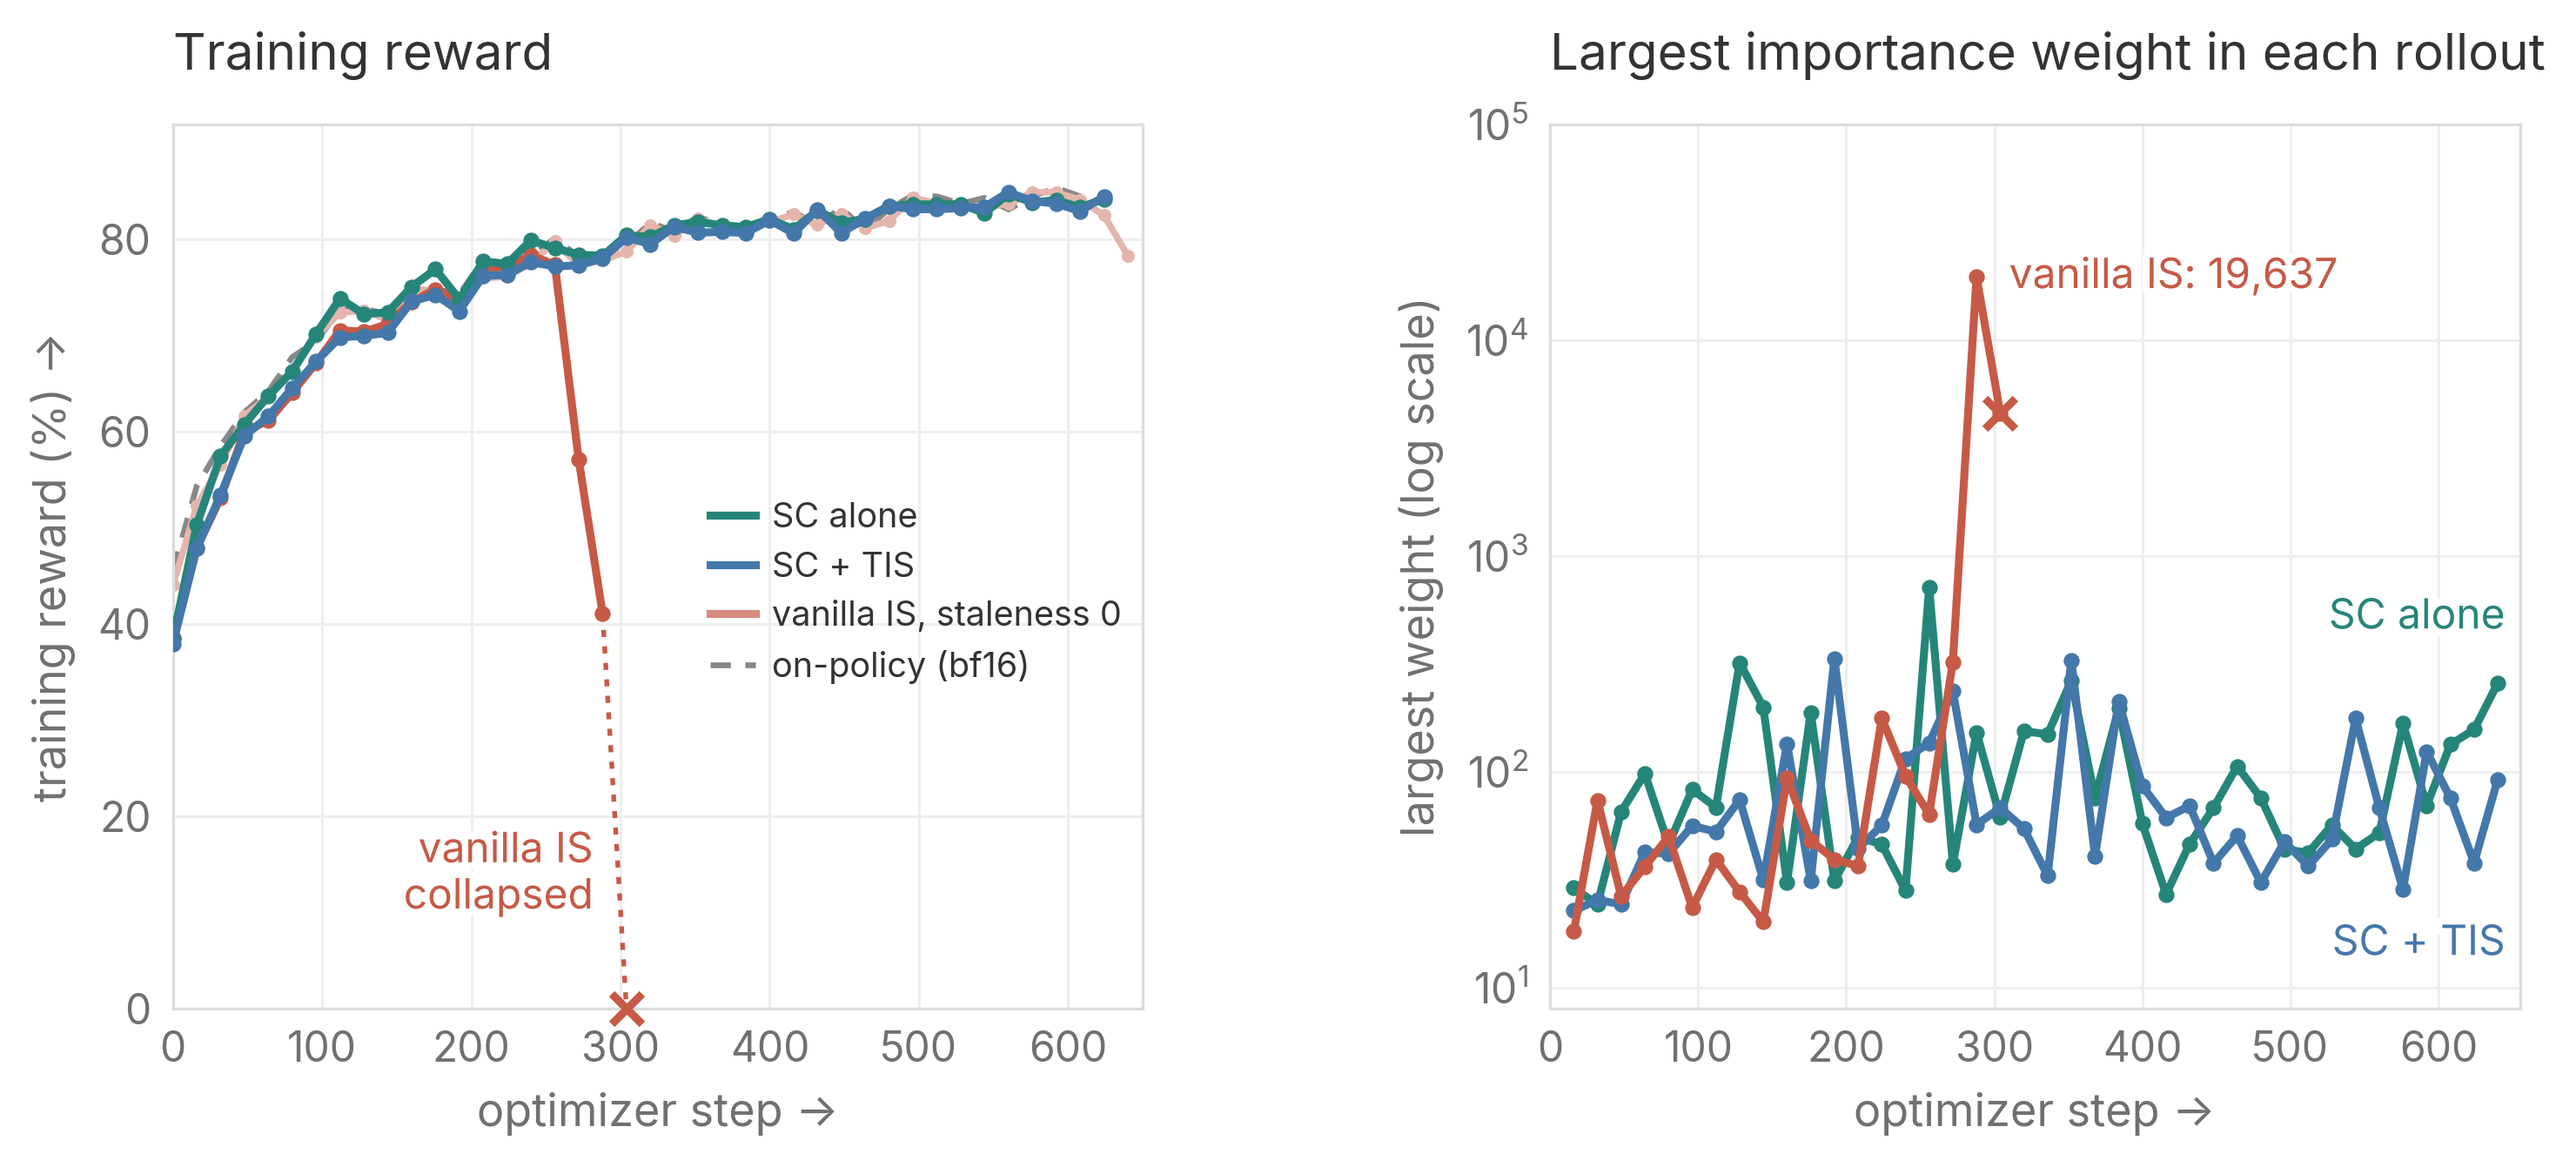
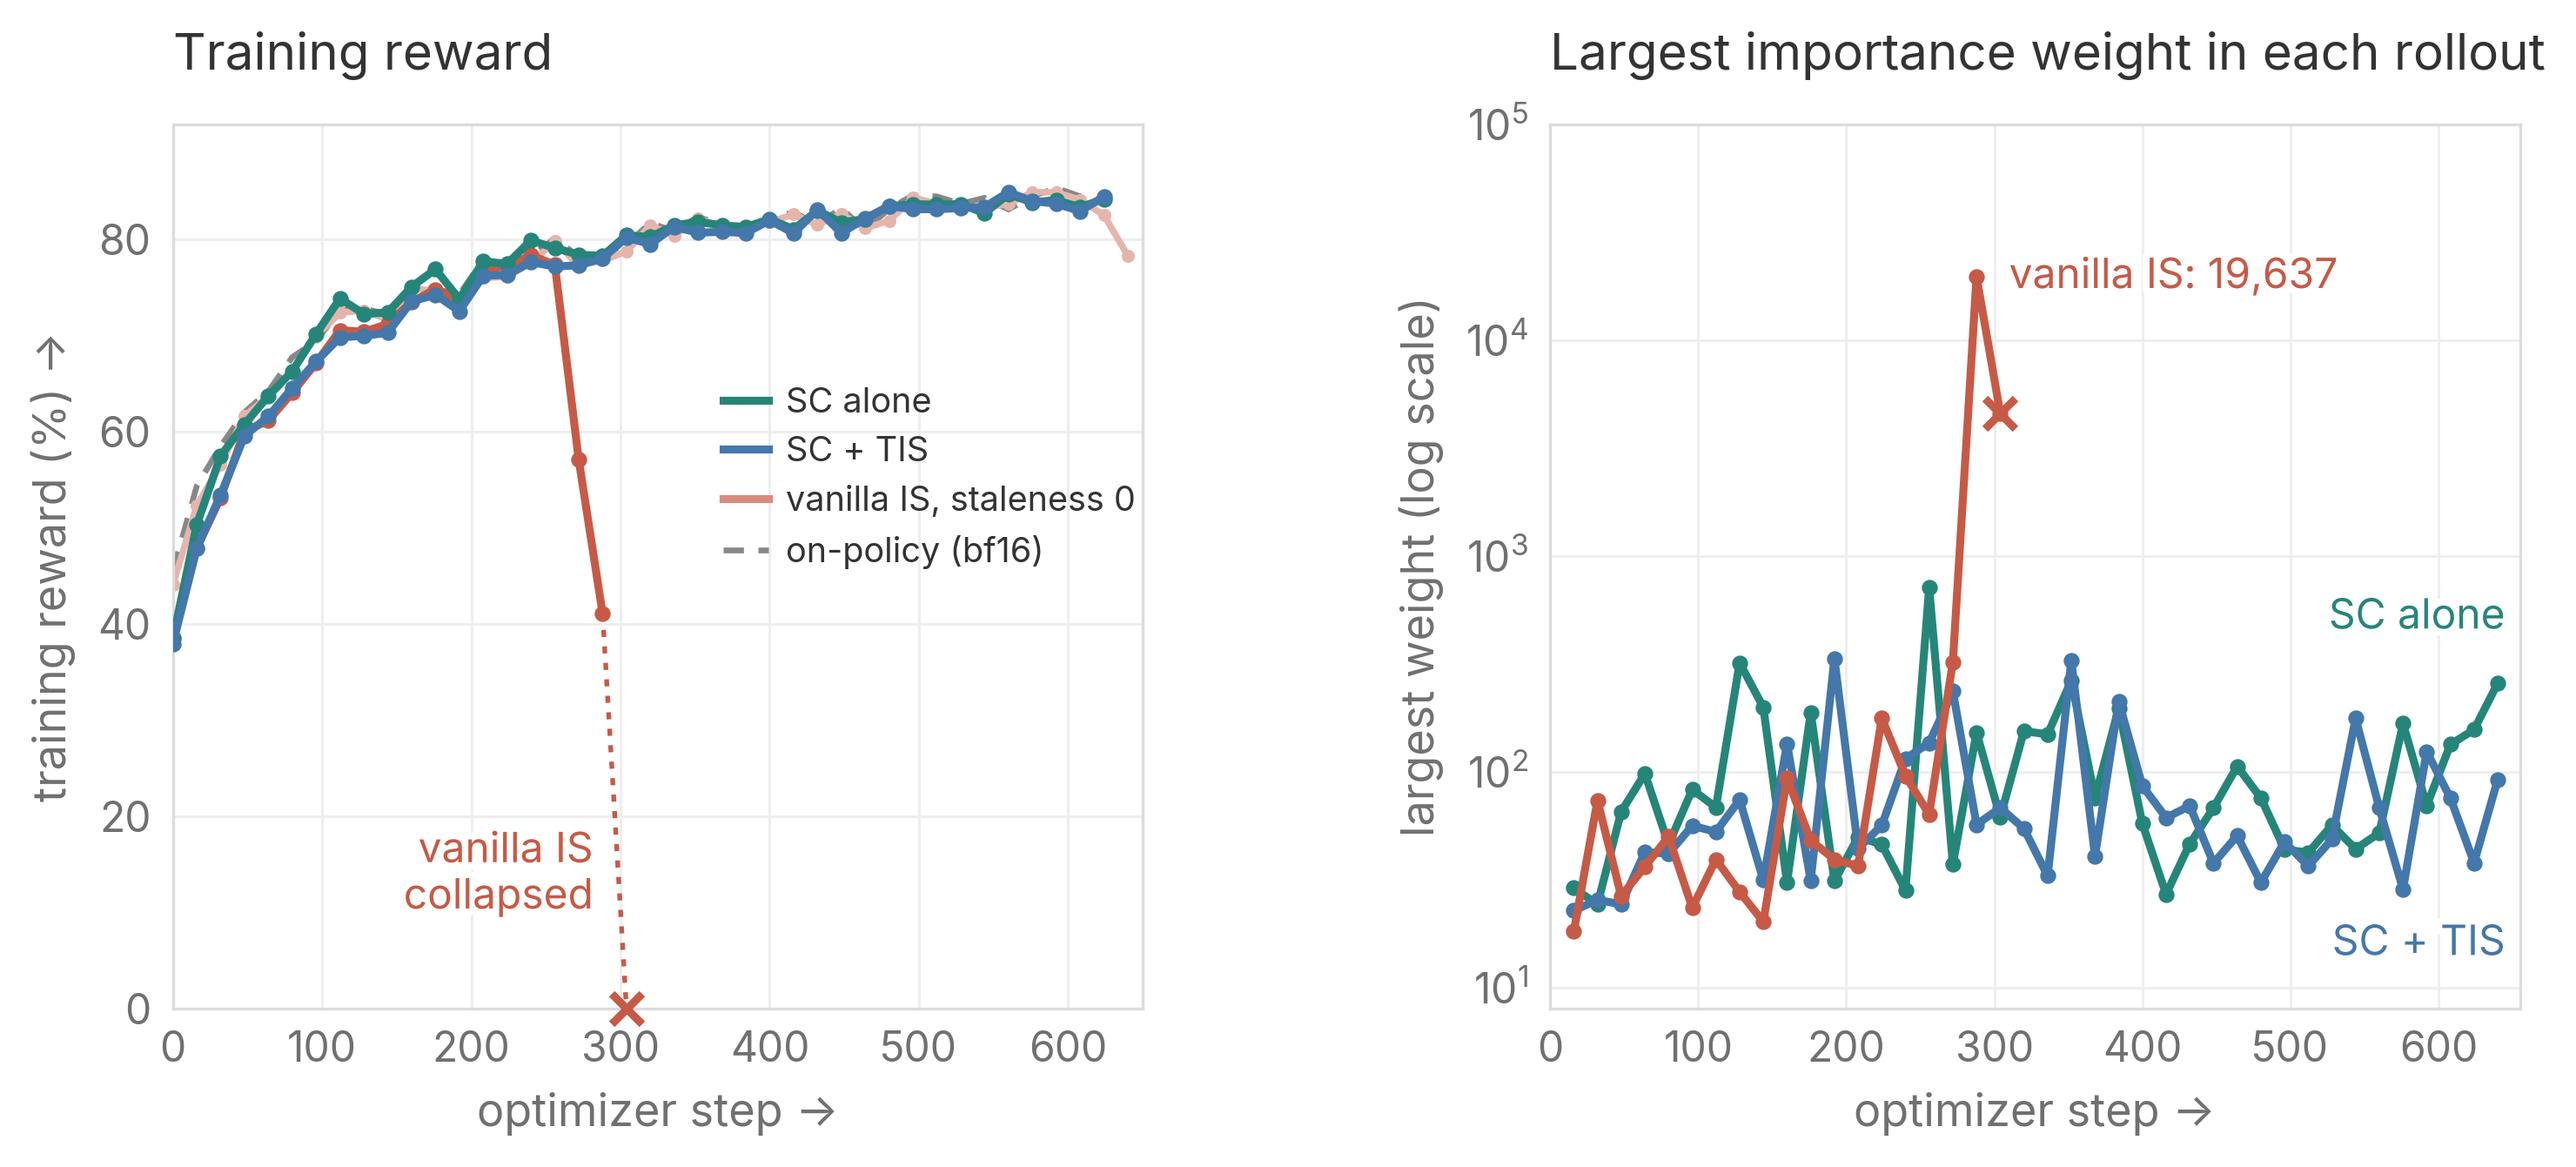
sc-drift-and-distance: Figure 12 legend moved further up

Changed region(s): [[0.2797, 0.3363, 0.4351, 0.4892], [0.2797, 0.5198, 0.4351, 0.5809]]

diff --git a/sc-drift-and-distance/index.html b/sc-drift-and-distance/index.html
@@ -227,7 +227,7 @@ html[data-theme=dark] .body figure img{filter:invert(.92) hue-rotate(180deg)}
 <p>Another option is importance weights, which correct the reweighting error that SC leaves. Vanilla IS removes drift in expectation even without SC (the starred run in <a class="figref" href="#fig-4">Figure 4</a>). Truncating the weights brings drift back, unless SC centers with the same truncated weights, as ours does. Yet neither rescues SC where it fails, and large and small weights show why.</p>
 <p><b>Large weights.</b> A token gets a large weight when the trainer gives it much more probability than the sampler did. Such tokens appear less often in the sampler's data than the trainer needs, and their large weights restore the balance but make the gradient noisy. Their variance grows with \(\mathbb{E}_q[w^2]\) and falls as \(1/B\), which is one reason vanilla IS survives at batch 512 but not at batch 64.</p>
 <p>A small KL does not keep these weights safe. In <a class="figref" href="#fig-12">Figure 12</a>, an fp8 sampler with a bf16 trainer adds a small rounding difference to every probability, and the KL stays small. Without staleness, vanilla IS still tracks on-policy, but at staleness 15 a single weight jumps to nearly 20,000 (right) and the run collapses, while SC alone and SC + TIS train to the end (left).</p>
-<figure id="fig-12"><img src="figs/fig08_fp8_sampler.png?v=9572aac2dc" alt="Figure 12"><figcaption><b>Figure 12. Vanilla IS, SC alone, and SC + TIS with an fp8 sampler.</b> 0.8B on GSM8K, staleness 15 unless noted, batch 512. Left: training reward. Right: the largest importance weight in each rollout, which SC alone only logs. The sampler runs weights and activations in fp8 and keeps the KV cache in bf16. Storing the KV cache in fp8 as well changes little, because only 6 of the model’s 24 layers use attention.</figcaption></figure>
+<figure id="fig-12"><img src="figs/fig08_fp8_sampler.png?v=f4d4eb871d" alt="Figure 12"><figcaption><b>Figure 12. Vanilla IS, SC alone, and SC + TIS with an fp8 sampler.</b> 0.8B on GSM8K, staleness 15 unless noted, batch 512. Left: training reward. Right: the largest importance weight in each rollout, which SC alone only logs. The sampler runs weights and activations in fp8 and keeps the KV cache in bf16. Storing the KV cache in fp8 as well changes little, because only 6 of the model’s 24 layers use attention.</figcaption></figure>
 <p><a class="figref" href="#fig-13">Figure 13</a> shows the same at staleness 63 and batch 512. SC alone moves about 10× further from the sampler than vanilla IS in the first rollout (left), yet SC trains to the end and vanilla IS collapses in both seeds (right).</p>
 <figure id="fig-13"><img src="figs/fig09_staleness63_vanilla_is.png?v=25e39c4422" alt="Figure 13"><figcaption><b>Figure 13. SC alone against vanilla IS.</b> 0.8B on GSM8K, staleness 63, batch 512, two seeds each. Left: KL to the sampler in the first rollout. Right: training reward.</figcaption></figure>
 <p><b>Small weights.</b> Tokens the trainer already gives less probability than the sampler have \(w &lt; 1\). When IS pushes such a token down, its weight shrinks and the push weakens, while SC keeps pushing at full strength. <a class="figref" href="#fig-14">Figure 14</a> shows the result in the first rollout at staleness 63. SC alone ends with several times more tokens below \(w = 0.5\) than vanilla IS (right). Adding just this weakening to SC, by multiplying the terms with negative advantage by \(\min(1, w)\), cuts the KL more than tenfold (left).</p>
